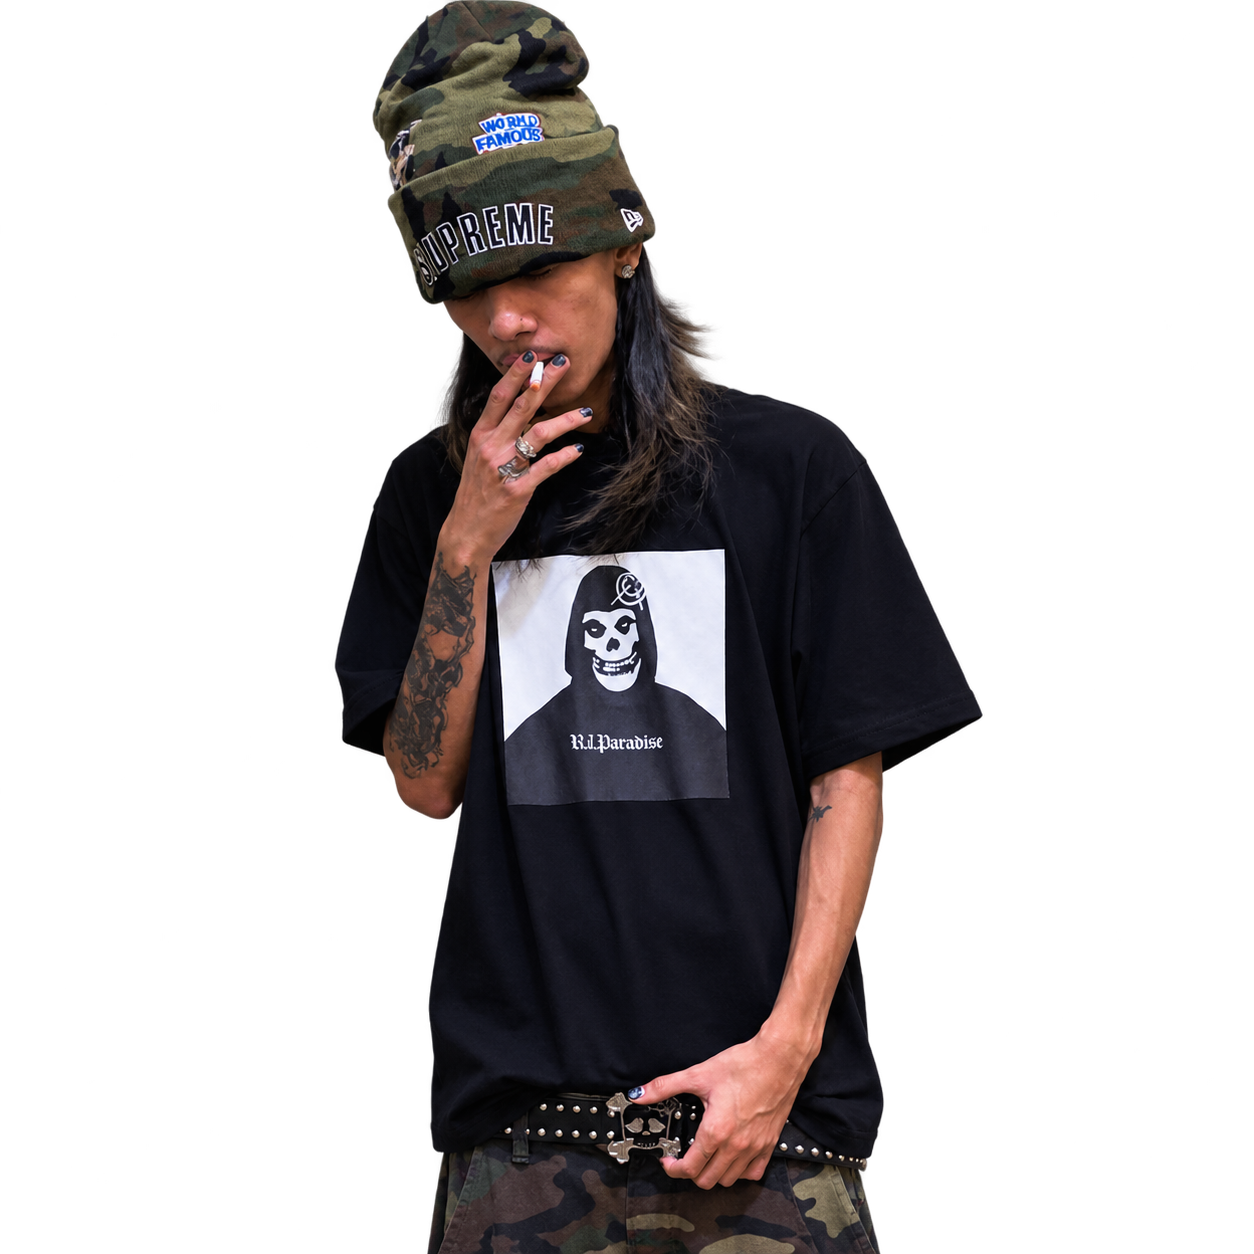
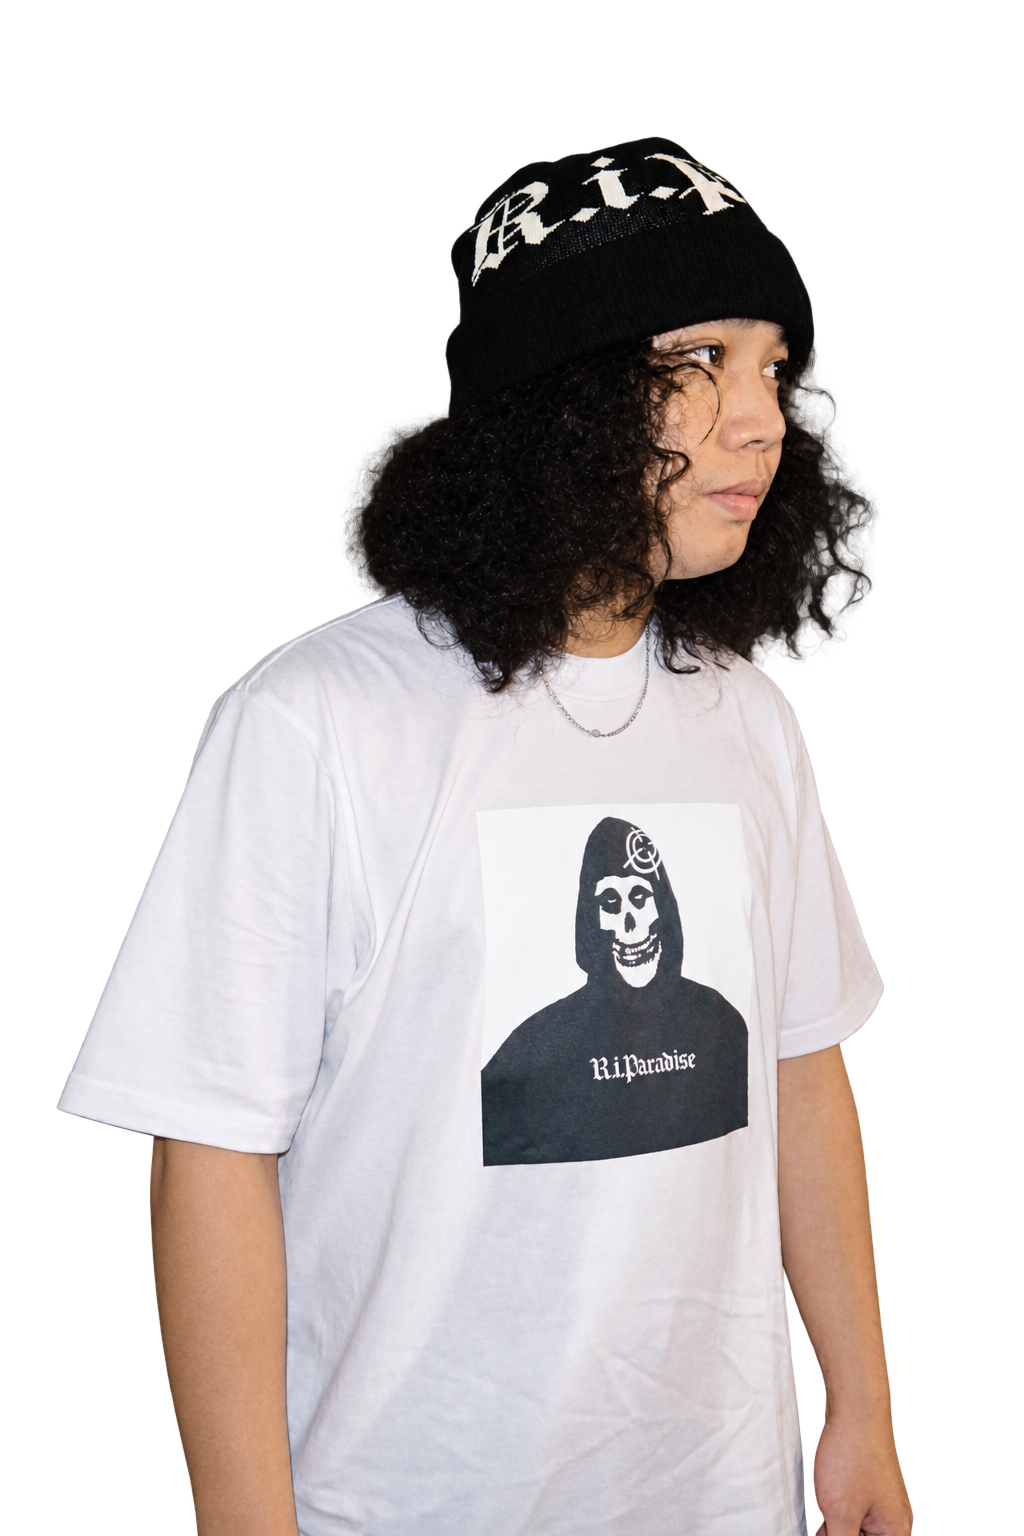
fix landing image

diff --git a/config.js b/config.js
@@ -45,8 +45,7 @@ const CONFIG = {
         "assets/main/3.png",
         "assets/main/4.png",
         "assets/main/5.png",
-        "assets/main/6.png",
-        "assets/main/7.png"
+        "assets/main/6.png"
     ],
     
     // Shop Now button under the slides
@@ -181,7 +180,7 @@ const CONFIG = {
             name: "Fitsmits Tee",
             price: 1000,
             image: "assets/products/1.png",        
-            imageHover: "assets/products/bb.png",  
+            imageHover: "assets/products/back1.png",  
             description: "Heavy Cotton. Oversized Fitting. In collaboration w/ 1210",
             sizes: ["S", "M", "L", "XL"],
             soldOut: false
